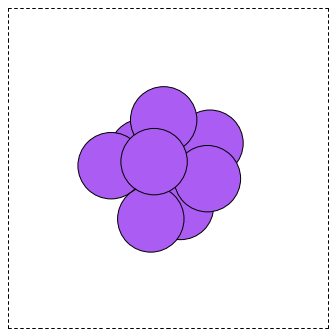
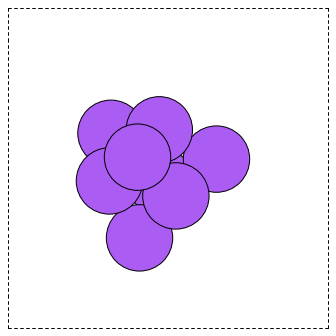
2nd lowest update for n=8

Changed region(s): [[0.2083, 0.2381, 0.744, 0.8333], [0.4762, 0.3869, 0.5357, 0.4464]]

diff --git a/Assignment 2/problem_5/structure_to_xyz.py b/Assignment 2/problem_5/structure_to_xyz.py
@@ -35,7 +35,7 @@ for natoms in [6, 7, 8]:
         write(save_path + '_second_lowest_energystate.xyz', second_lowest_energy_state)
         write(save_path + '_second_lowest_energystate.png', second_lowest_energy_state)
     if natoms == 8:
-        second_lowest_energy_state = db.get('id=66').toatoms()
+        second_lowest_energy_state = db.get('id=202').toatoms() #id=66 was more or less the same as groundstate
         write(save_path + '_second_lowest_energystate.xyz', second_lowest_energy_state)
         write(save_path + '_second_lowest_energystate.png', second_lowest_energy_state)
     
